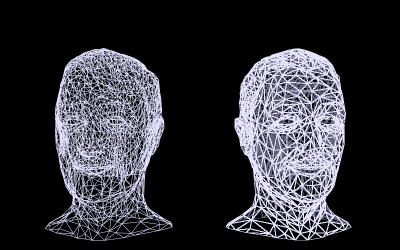
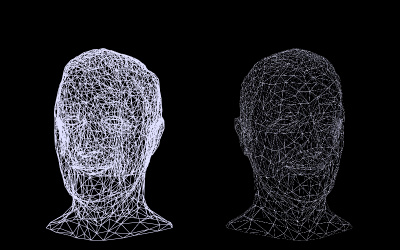
Material: Add alphaToCoverage.

Changed region(s): [[0.54, 0.196, 0.9, 0.98], [0.09, 0.196, 0.45, 0.98]]

diff --git a/examples/webgl_materials_wireframe.html b/examples/webgl_materials_wireframe.html
@@ -13,8 +13,8 @@
 
 		<script type="x-shader/x-vertex" id="vertexShader">
 
-			attribute vec3 center;
-			varying vec3 vCenter;
+			in vec3 center;
+			out vec3 vCenter;
 
 			void main() {
 
@@ -28,25 +28,26 @@
 
 		<script type="x-shader/x-fragment" id="fragmentShader">
 
-			uniform float widthFactor;
+			uniform float thickness;
 
-			varying vec3 vCenter;
+			in vec3 vCenter;
+			out vec4 outColor;
 
-			float edgeFactorTri() {
+			float aastep( float threshold, float dist ) {
 
-				vec3 d = fwidth( vCenter.xyz );
-
-				vec3 a3 = smoothstep( vec3( 0.0 ), d * widthFactor, vCenter.xyz );
-
-				return min( min( a3.x, a3.y ), a3.z );
+				float afwidth = fwidth( dist ) * 0.5;
+				return smoothstep( threshold - afwidth, threshold + afwidth, dist );
 
 			}
 
 			void main() {
 
-				if ( edgeFactorTri() > 0.99 ) discard;
+				float d = min( min( vCenter.x, vCenter.y ), vCenter.z );
 
-				gl_FragColor = gl_FrontFacing ? vec4( 0.9, 0.9, 1.0, 1.0 ) : vec4( 0.4, 0.4, 0.5, 1.0 );
+				float edge = 1.0 - aastep( thickness, d );
+
+				outColor.rgb = gl_FrontFacing ? vec3( 0.9, 0.9, 1.0 ) : vec3( 0.4, 0.4, 0.5 );
+				outColor.a = edge;
 
 			}
 
@@ -56,13 +57,15 @@
 
 			import * as THREE from '../build/three.module.js';
 
+			import { OrbitControls } from './jsm/controls/OrbitControls.js';
+
 			import { GUI } from './jsm/libs/dat.gui.module.js';
 
 			const API = {
-				widthFactor: 1
+				thickness: 0.01
 			};
 
-			let renderer, scene, camera, mesh1, mesh2;
+			let renderer, scene, camera, mesh2;
 
 			init();
 
@@ -78,6 +81,10 @@
 				camera = new THREE.PerspectiveCamera( 40, window.innerWidth / window.innerHeight, 1, 500 );
 				camera.position.z = 150;
 
+				const controls = new OrbitControls( camera, renderer.domElement );
+				controls.enablePan = false;
+				controls.enableZoom = false;
+
 				new THREE.BufferGeometryLoader().load( 'models/json/WaltHeadLo_buffergeometry.json', function ( geometry ) {
 
 					// on the left
@@ -89,25 +96,25 @@
 
 					} );
 
-					mesh1 = new THREE.Mesh( geometry, material1 );
+					const mesh1 = new THREE.Mesh( geometry, material1 );
 					mesh1.position.set( - 40, 0, 0 );
 
 					scene.add( mesh1 );
 
 					// on the right
 
-					const uniforms = { 'widthFactor': { value: API.widthFactor } };
+					const uniforms = { 'thickness': { value: API.thickness } };
 
 					const material2 = new THREE.ShaderMaterial( {
 
 						uniforms: uniforms,
 						vertexShader: document.getElementById( 'vertexShader' ).textContent,
 						fragmentShader: document.getElementById( 'fragmentShader' ).textContent,
-						side: THREE.DoubleSide
+						side: THREE.DoubleSide,
+						glslVersion: THREE.GLSL3,
+						alphaToCoverage: true // only works when WebGLRenderer's "antialias" is set to "true"
 
 					} );
-
-					material2.extensions.derivatives = true;
 
 					geometry.deleteAttribute( 'normal' );
 					geometry.deleteAttribute( 'uv' );
@@ -129,9 +136,9 @@
 
 				const gui = new GUI();
 
-				gui.add( API, 'widthFactor', 0.4, 4 ).onChange( function () {
+				gui.add( API, 'thickness', 0.01, 0.1 ).onChange( function () {
 
-					mesh2.material.uniforms.widthFactor.value = API.widthFactor;
+					mesh2.material.uniforms.thickness.value = API.thickness;
 
 				} );
 
@@ -176,10 +183,6 @@
 			function animate() {
 
 				requestAnimationFrame( animate );
-
-				mesh1.rotation.y += 0.01;
-
-				mesh2.rotation.y += 0.01;
 
 				renderer.render( scene, camera );
 

diff --git a/src/materials/Material.js b/src/materials/Material.js
@@ -59,6 +59,7 @@ function Material() {
 	this.dithering = false;
 
 	this.alphaTest = 0;
+	this.alphaToCoverage = false;
 	this.premultipliedAlpha = false;
 
 	this.visible = true;
@@ -298,6 +299,7 @@ Material.prototype = Object.assign( Object.create( EventDispatcher.prototype ), 
 		if ( this.dithering === true ) data.dithering = true;
 
 		if ( this.alphaTest > 0 ) data.alphaTest = this.alphaTest;
+		if ( this.alphaToCoverage === true ) data.alphaToCoverage = this.alphaToCoverage;
 		if ( this.premultipliedAlpha === true ) data.premultipliedAlpha = this.premultipliedAlpha;
 
 		if ( this.wireframe === true ) data.wireframe = this.wireframe;
@@ -421,6 +423,7 @@ Material.prototype = Object.assign( Object.create( EventDispatcher.prototype ), 
 		this.dithering = source.dithering;
 
 		this.alphaTest = source.alphaTest;
+		this.alphaToCoverage = source.alphaToCoverage;
 		this.premultipliedAlpha = source.premultipliedAlpha;
 
 		this.visible = source.visible;

diff --git a/src/renderers/webgl/WebGLState.js b/src/renderers/webgl/WebGLState.js
@@ -642,6 +642,10 @@ function WebGLState( gl, extensions, capabilities ) {
 
 		setPolygonOffset( material.polygonOffset, material.polygonOffsetFactor, material.polygonOffsetUnits );
 
+		material.alphaToCoverage === true
+			? enable( gl.SAMPLE_ALPHA_TO_COVERAGE )
+			: disable( gl.SAMPLE_ALPHA_TO_COVERAGE );
+
 	}
 
 	//
@@ -885,6 +889,7 @@ function WebGLState( gl, extensions, capabilities ) {
 		gl.disable( gl.POLYGON_OFFSET_FILL );
 		gl.disable( gl.SCISSOR_TEST );
 		gl.disable( gl.STENCIL_TEST );
+		gl.disable( gl.SAMPLE_ALPHA_TO_COVERAGE );
 
 		gl.blendEquation( gl.FUNC_ADD );
 		gl.blendFunc( gl.ONE, gl.ZERO );

diff --git a/docs/api/zh/materials/Material.html b/docs/api/zh/materials/Material.html
@@ -28,6 +28,12 @@
 <p>设置运行alphaTest时要使用的alpha值。如果不透明度低于此值，则不会渲染材质。默认值为*0*。
 </p>
 
+<h3>[property:Float alphaToCoverage]</h3>
+<p>
+Enables alpha to coverage. Can only be used with MSAA-enabled contexts (meaning when the renderer was created with *antialias* parameter set to *true*).
+Default is *false*.
+</p>
+
 <h3>[property:Integer blendDst]</h3>
 <p> 混合目标。默认值为[page:CustomBlendingEquation OneMinusSrcAlphaFactor]。
 	目标因子所有可能的取值请参阅[page:CustomBlendingEquation constants]。

diff --git a/src/loaders/MaterialLoader.js b/src/loaders/MaterialLoader.js
@@ -122,6 +122,9 @@ class MaterialLoader extends Loader {
 		if ( json.morphNormals !== undefined ) material.morphNormals = json.morphNormals;
 		if ( json.dithering !== undefined ) material.dithering = json.dithering;
 
+		if ( json.alphaToCoverage !== undefined ) material.alphaToCoverage = json.alphaToCoverage;
+		if ( json.premultipliedAlpha !== undefined ) material.premultipliedAlpha = json.premultipliedAlpha;
+
 		if ( json.vertexTangents !== undefined ) material.vertexTangents = json.vertexTangents;
 
 		if ( json.visible !== undefined ) material.visible = json.visible;

diff --git a/docs/api/en/materials/Material.html b/docs/api/en/materials/Material.html
@@ -36,6 +36,12 @@
 		Default is *0*.
 		</p>
 
+		<h3>[property:Float alphaToCoverage]</h3>
+		<p>
+		Enables alpha to coverage. Can only be used with MSAA-enabled contexts (meaning when the renderer was created with *antialias* parameter set to *true*).
+		Default is *false*.
+		</p>
+
 		<h3>[property:Integer blendDst]</h3>
 		<p>
 		Blending destination. Default is [page:CustomBlendingEquation OneMinusSrcAlphaFactor].

diff --git a/utils/build/rollup.config.js b/utils/build/rollup.config.js
@@ -152,7 +152,8 @@ function glconstants() {
 		UNPACK_SKIP_IMAGES: 32877,
 		MAX_SAMPLES: 36183,
 		READ_FRAMEBUFFER: 36008,
-		DRAW_FRAMEBUFFER: 36009
+		DRAW_FRAMEBUFFER: 36009,
+		SAMPLE_ALPHA_TO_COVERAGE: 32926
 	};
 
 	return {
